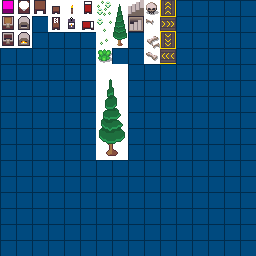
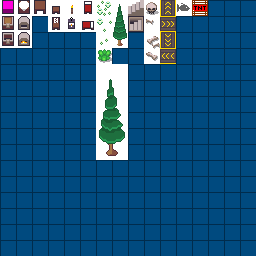
fish partie 1.0

Changed region(s): [[0.6875, 0.0, 0.8125, 0.0625]]

diff --git a/Sources/Hevadea/Game/Entities/EntityFish.cs b/Sources/Hevadea/Game/Entities/EntityFish.cs
@@ -1,0 +1,43 @@
+using Hevadea.Framework;
+using Hevadea.Framework.Graphic.SpriteAtlas;
+using Hevadea.Game.Entities.Components.Ai;
+using Hevadea.Game.Entities.Components.Attributes;
+using Hevadea.Game.Entities.Components.Interaction;
+using Microsoft.Xna.Framework;
+using Microsoft.Xna.Framework.Graphics;
+using System;
+using System.Collections.Generic;
+using System.Linq;
+using System.Text;
+using System.Threading.Tasks;
+
+namespace Hevadea.Game.Entities
+{
+    public class EntityFish:Entity
+    {
+        private readonly Sprite _sprite;
+        public EntityFish()
+        {
+            _sprite = new Sprite(Ressources.TileEntities, new Point(1, 0));
+            Attach(new Move());
+            Attach(new Swim());
+            Attach(new Breakable());
+        }
+
+        public override void OnUpdate(GameTime gameTime)
+        {
+            var dx = Rise.Random.Next(-1, 1);
+            var dy = Rise.Random.Next(-1, 1);
+            var move = Get<Move>();
+            if (true)
+            {
+               move.MoveTo(X+dx, Y+dy);
+            }
+            
+        }
+        public override void OnDraw(SpriteBatch spriteBatch, GameTime gameTime)
+        {
+            _sprite.Draw(spriteBatch, new Rectangle((int)X - 8, (int)Y - 8, 16, 16), Color.White);
+        }
+    }
+}

diff --git a/Sources/Hevadea/Game/Entities/EntityCraftingBench.cs b/Sources/Hevadea/Game/Entities/EntityCraftingBench.cs
@@ -16,7 +16,7 @@ namespace Hevadea.Game.Entities
 
         public EntityCraftingBench()
         {
-            _sprite = new Sprite(Ressources.TileEntities, new Point(1, 0));
+            _sprite = new Sprite(Ressources.TileEntities, new Point(12, 0));
 
             Attachs(
                 new Breakable(),
